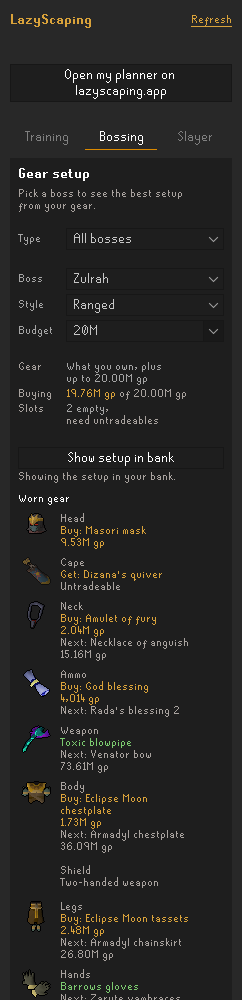
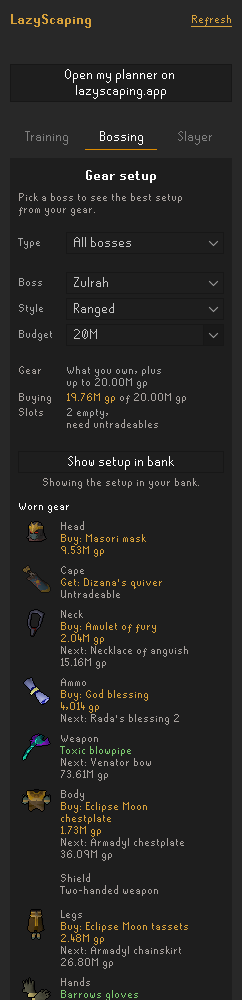
Make expandable sections obvious and centre more of the panel
- "Switch and spec upgrades", "Tips and more" and the extra training
  methods are shaded bars with Show or Hide and an arrow, lighting up
  on hover, instead of underlined text.
- Card titles, the inventory grid, the full plan and wiki links, Try
  again and the bank tag message are centred.
- The README screenshots show the new look.

diff --git a/src/main/java/com/lazyscaping/ui/Components.java b/src/main/java/com/lazyscaping/ui/Components.java
@@ -6,12 +6,17 @@ import java.awt.Component;
 import java.awt.Cursor;
 import java.awt.Dimension;
 import java.awt.FlowLayout;
+import java.awt.Graphics;
+import java.awt.Graphics2D;
 import java.awt.GridLayout;
+import java.awt.Polygon;
+import java.awt.RenderingHints;
 import java.awt.event.MouseAdapter;
 import java.awt.event.MouseEvent;
 import java.util.List;
 import javax.swing.BorderFactory;
 import javax.swing.BoxLayout;
+import javax.swing.Icon;
 import javax.swing.JButton;
 import javax.swing.JComboBox;
 import javax.swing.JComponent;
@@ -121,7 +126,7 @@ final class Components
 		grid.setOpaque(false);
 		cells.forEach(grid::add);
 
-		JPanel holder = new JPanel(new FlowLayout(FlowLayout.LEFT, 0, 0));
+		JPanel holder = new JPanel(new FlowLayout(FlowLayout.CENTER, 0, 0));
 		holder.setOpaque(false);
 		holder.add(grid);
 		return holder;
@@ -165,12 +170,22 @@ final class Components
 		card.setBackground(ColorScheme.DARKER_GRAY_COLOR);
 		card.setBorder(new EmptyBorder(CARD_PADDING, CARD_PADDING, CARD_PADDING, CARD_PADDING));
 
-		JLabel heading = new JLabel(title);
+		JLabel heading = new JLabel(title, SwingConstants.CENTER);
 		heading.setFont(FontManager.getRunescapeBoldFont());
 		heading.setForeground(Color.WHITE);
 		heading.setBorder(new EmptyBorder(0, 0, 6, 0));
-		card.add(heading);
+		card.add(fullWidth(heading));
 		return card;
+	}
+
+	/** A component centred across the width it's given. */
+	static JComponent centered(JComponent component)
+	{
+		JPanel row = new JPanel(new FlowLayout(FlowLayout.CENTER, 0, 0));
+		row.setOpaque(false);
+		row.add(component);
+		row.setMaximumSize(new Dimension(Integer.MAX_VALUE, row.getPreferredSize().height));
+		return row;
 	}
 
 	static JComponent fullWidth(JComponent component)
@@ -224,6 +239,15 @@ final class Components
 		return spaced(label(Html.white(Html.escape(text))), 10);
 	}
 
+	/** A small-font label centred across its width, for short one-line notes. */
+	static JLabel centeredLabel()
+	{
+		JLabel label = new JLabel("", SwingConstants.CENTER);
+		label.setFont(FontManager.getRunescapeSmallFont());
+		label.setForeground(ColorScheme.LIGHT_GRAY_COLOR);
+		return label;
+	}
+
 	static JButton button(String text)
 	{
 		return button(text, TEXT_WIDTH);
@@ -255,6 +279,90 @@ final class Components
 				action.run();
 			}
 		});
+	}
+
+	/**
+	 * A shaded bar with an arrow that shows and hides {@code details}, so it's
+	 * plain that there's more inside.
+	 */
+	static JComponent disclosure(String title, JComponent details)
+	{
+		JLabel name = new JLabel(title);
+		name.setFont(FontManager.getRunescapeSmallFont());
+		name.setForeground(Color.WHITE);
+		ArrowIcon arrow = new ArrowIcon();
+		JLabel toggle = new JLabel("Show", arrow, SwingConstants.RIGHT);
+		toggle.setFont(FontManager.getRunescapeSmallFont());
+		toggle.setForeground(Html.GOLD);
+		toggle.setHorizontalTextPosition(SwingConstants.LEFT);
+		toggle.setIconTextGap(5);
+
+		JPanel bar = new JPanel(new BorderLayout(6, 0));
+		bar.setBackground(ColorScheme.DARK_GRAY_COLOR);
+		bar.setBorder(new EmptyBorder(5, 8, 5, 8));
+		bar.add(name, BorderLayout.CENTER);
+		bar.add(toggle, BorderLayout.EAST);
+
+		JPanel panel = column();
+		details.setVisible(false);
+		onClick(bar, () ->
+		{
+			boolean open = !details.isVisible();
+			details.setVisible(open);
+			arrow.open = open;
+			toggle.setText(open ? "Hide" : "Show");
+			panel.revalidate();
+			panel.repaint();
+		});
+		bar.addMouseListener(new MouseAdapter()
+		{
+			@Override
+			public void mouseEntered(MouseEvent e)
+			{
+				bar.setBackground(ColorScheme.DARK_GRAY_HOVER_COLOR);
+			}
+
+			@Override
+			public void mouseExited(MouseEvent e)
+			{
+				bar.setBackground(ColorScheme.DARK_GRAY_COLOR);
+			}
+		});
+		panel.add(spaced(fullWidth(bar), 8));
+		panel.add(details);
+		return panel;
+	}
+
+	/** A small triangle pointing right when closed and down when open. */
+	private static final class ArrowIcon implements Icon
+	{
+		private static final int SIZE = 7;
+		private boolean open;
+
+		@Override
+		public void paintIcon(Component c, Graphics g, int x, int y)
+		{
+			Graphics2D g2 = (Graphics2D) g.create();
+			g2.setRenderingHint(RenderingHints.KEY_ANTIALIASING, RenderingHints.VALUE_ANTIALIAS_ON);
+			g2.setColor(Html.GOLD);
+			Polygon triangle = open
+				? new Polygon(new int[]{x, x + SIZE, x + SIZE / 2}, new int[]{y + 1, y + 1, y + SIZE - 1}, 3)
+				: new Polygon(new int[]{x + 1, x + SIZE - 1, x + 1}, new int[]{y, y + SIZE / 2, y + SIZE}, 3);
+			g2.fill(triangle);
+			g2.dispose();
+		}
+
+		@Override
+		public int getIconWidth()
+		{
+			return SIZE;
+		}
+
+		@Override
+		public int getIconHeight()
+		{
+			return SIZE;
+		}
 	}
 
 	/** A clickable header that shows and hides {@code details}. */
@@ -333,7 +441,7 @@ final class Components
 	{
 		list.removeAll();
 		list.add(label(Html.color(Html.RED, Html.escape(message))));
-		list.add(spaced(textButton("Try again", retry), 4));
+		list.add(spaced(centered(textButton("Try again", retry)), 6));
 		refresh(list);
 	}
 

diff --git a/src/main/java/com/lazyscaping/ui/GearSetupView.java b/src/main/java/com/lazyscaping/ui/GearSetupView.java
@@ -26,7 +26,7 @@ class GearSetupView
 	private final JComponent styleRow = Components.labeledRow("Style", styleBox);
 	private final BudgetPicker budget;
 	private final JButton bankButton = Components.button("Show setup in bank");
-	private final JLabel bankMessage = Components.label("");
+	private final JLabel bankMessage = Components.centeredLabel();
 	private final JPanel setupPanel = Components.column();
 	private final JPanel panel = Components.column();
 
@@ -55,7 +55,7 @@ class GearSetupView
 		panel.add(styleRow);
 		panel.add(budget);
 		panel.add(setupPanel);
-		panel.add(Components.spaced(Components.textButton("Open the full plan on lazyscaping.app", () -> actions.openGearPlan(target)), 10));
+		panel.add(Components.spaced(Components.centered(Components.textButton("Open the full plan on lazyscaping.app", () -> actions.openGearPlan(target))), 10));
 		showMessage(null);
 	}
 
@@ -92,7 +92,7 @@ class GearSetupView
 
 	void showBankMessage(String message)
 	{
-		bankMessage.setText(message == null ? "" : Html.muted(Html.escape(message)));
+		bankMessage.setText(message == null ? "" : "<html>" + Html.muted(Html.escape(message)) + "</html>");
 		bankMessage.setVisible(message != null);
 	}
 
@@ -122,7 +122,7 @@ class GearSetupView
 			addSummary(setup);
 			setupPanel.add(Components.gap(8));
 			setupPanel.add(Components.fullWidth(bankButton));
-			setupPanel.add(bankMessage);
+			setupPanel.add(Components.fullWidth(bankMessage));
 
 			setupPanel.add(Components.subheading("Worn gear"));
 			setup.getPicks().forEach(slot -> setupPanel.add(slotRow(slot)));
@@ -231,8 +231,7 @@ class GearSetupView
 			return details;
 		}
 
-		JLabel header = Components.spaced(Components.label(Html.color(Html.GOLD, Html.underline("Switch and spec upgrades"))), 8);
-		return Components.expandable(header, details);
+		return Components.disclosure("Switch and spec upgrades", details);
 	}
 
 	/** One equipment slot: the item's picture, then the item and what to get next. */

diff --git a/src/main/java/com/lazyscaping/ui/TrainingTab.java b/src/main/java/com/lazyscaping/ui/TrainingTab.java
@@ -229,8 +229,7 @@ class TrainingTab extends JPanel
 		if (more.getComponentCount() > 0)
 		{
 			int hidden = more.getComponentCount();
-			JLabel header = Components.spaced(Components.label(Html.color(Html.GOLD, Html.underline("Show " + hidden + " more method" + (hidden == 1 ? "" : "s")))), 8);
-			methodList.add(Components.expandable(header, more));
+			methodList.add(Components.disclosure(hidden + " more method" + (hidden == 1 ? "" : "s"), more));
 		}
 		Components.refresh(methodList);
 	}

diff --git a/src/main/java/com/lazyscaping/ui/TravelView.java b/src/main/java/com/lazyscaping/ui/TravelView.java
@@ -50,7 +50,7 @@ final class TravelView
 
 		if (travel.getWiki() != null)
 		{
-			parent.add(Components.spaced(Components.link("Strategy guide on the OSRS Wiki", () -> actions.openWiki(travel.getWiki())), 6));
+			parent.add(Components.spaced(Components.centered(Components.textButton("Strategy guide on the OSRS Wiki", () -> actions.openWiki(travel.getWiki()))), 8));
 		}
 	}
 }

diff --git a/src/main/java/com/lazyscaping/ui/SlayerTab.java b/src/main/java/com/lazyscaping/ui/SlayerTab.java
@@ -214,8 +214,7 @@ class SlayerTab extends JPanel
 		}
 		if (more.getComponentCount() > 0)
 		{
-			JLabel header = Components.spaced(Components.label(Html.color(Html.GOLD, Html.underline("Tips and more"))), 8);
-			taskInfo.add(Components.expandable(header, more));
+			taskInfo.add(Components.disclosure("Tips and more", more));
 		}
 	}
 
